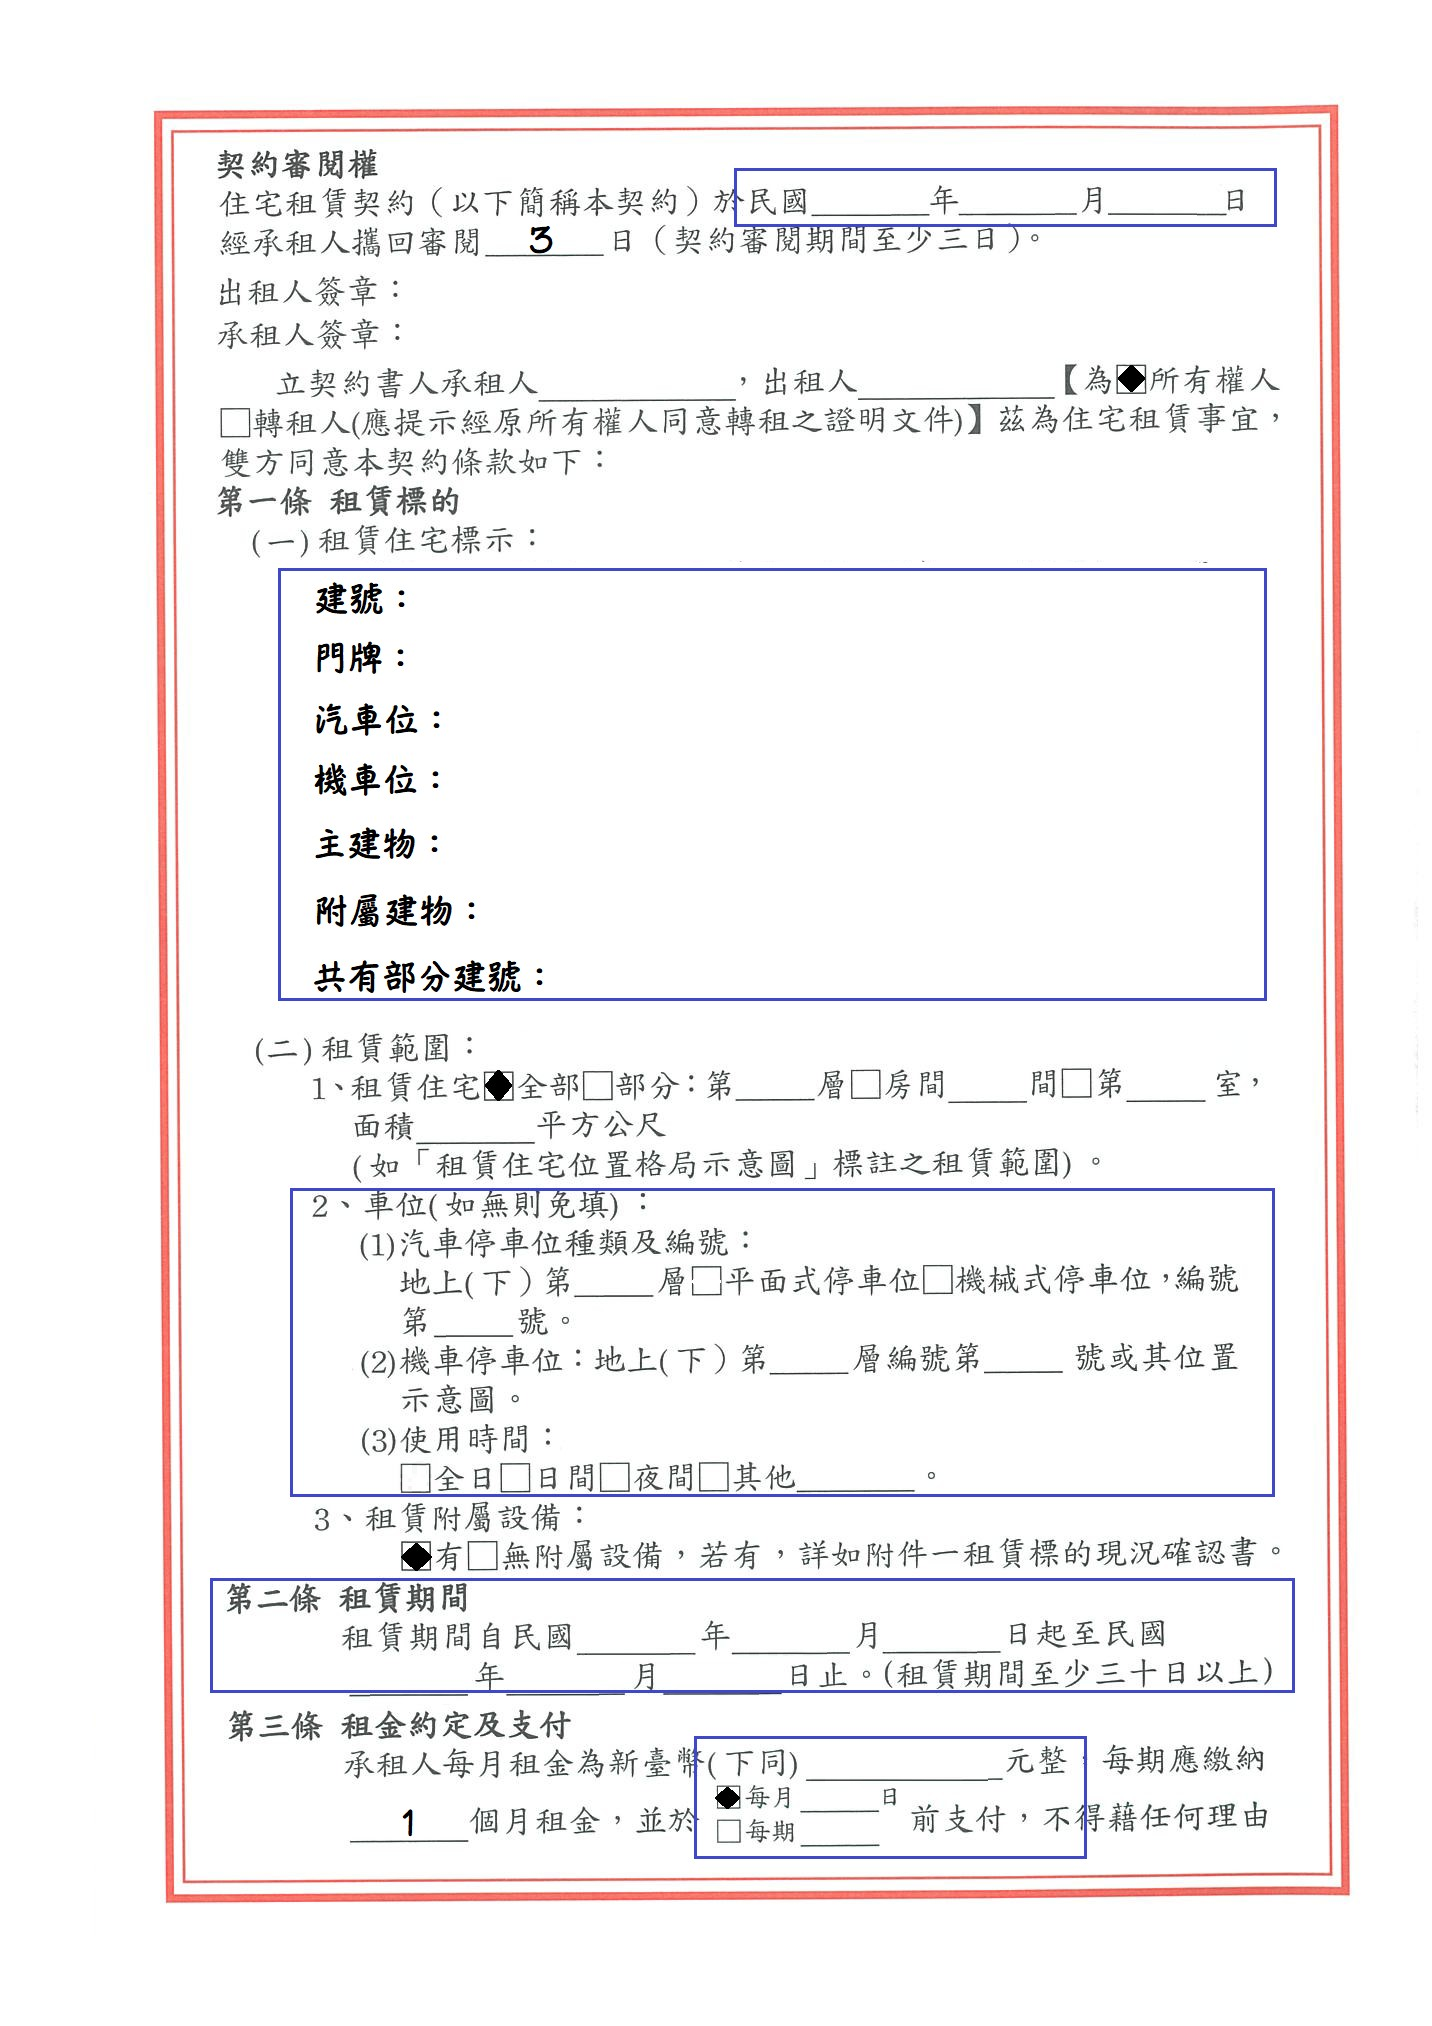
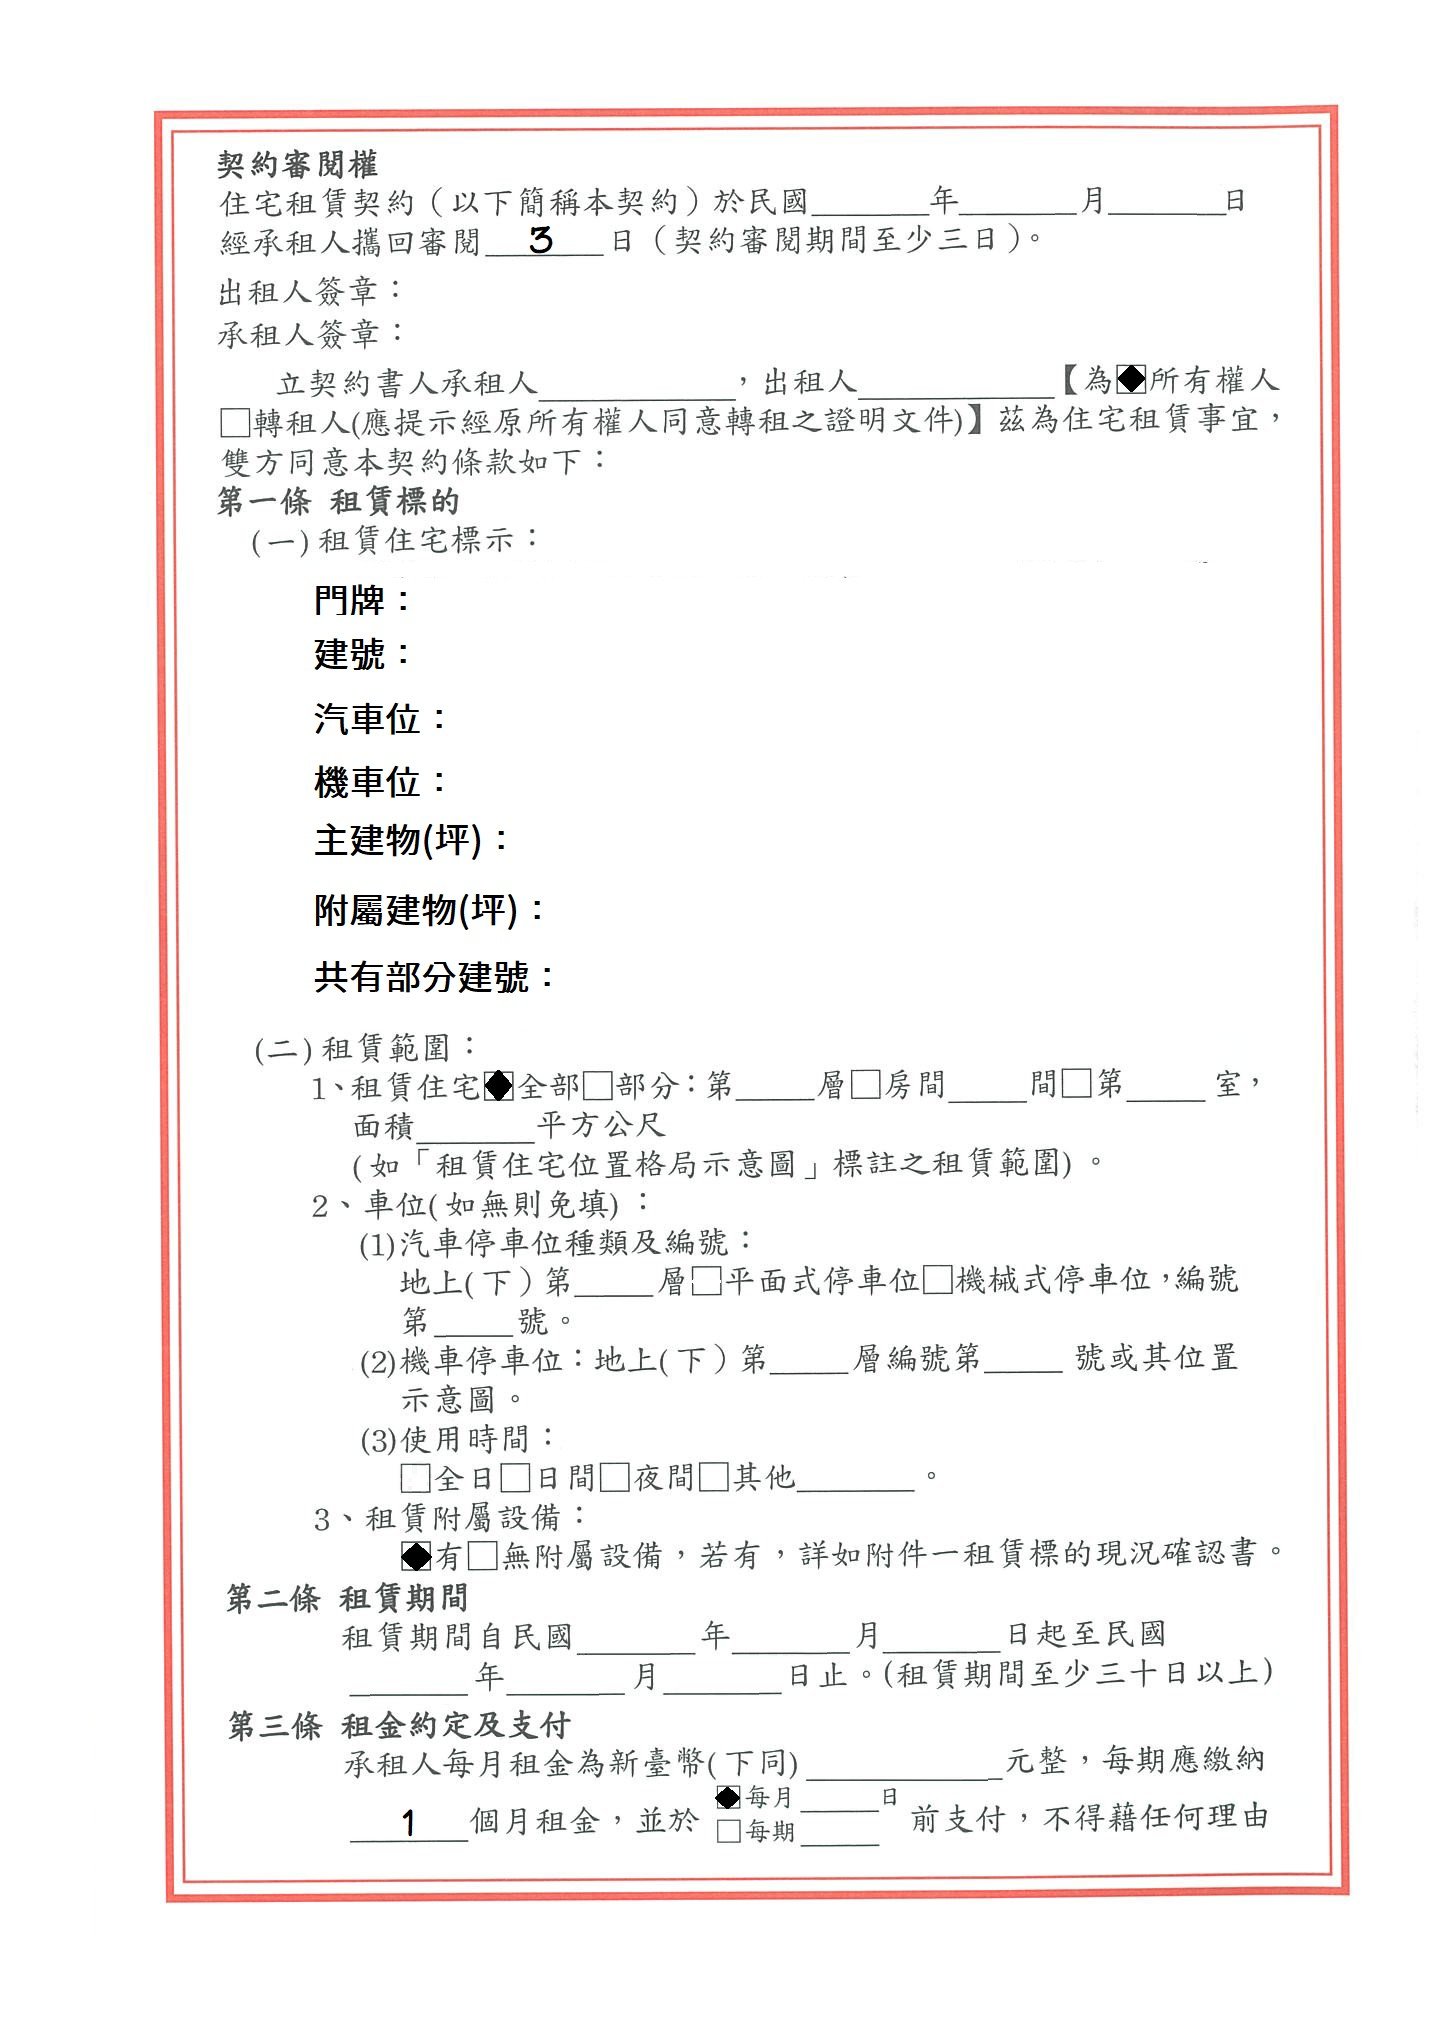
Replace lease images and Reposition fields

Changed region(s): [[0.2151, 0.2799, 0.3687, 0.4975], [0.8603, 0.2799, 0.8911, 0.311]]

diff --git a/app/controllers/lease_controller.rb b/app/controllers/lease_controller.rb
@@ -13,13 +13,13 @@ class LeaseController < ApplicationController
       -vf "#{draw_text(params[:year], 830, 190, size: 30)},\
           #{draw_text(params[:month], 1000, 190, size: 30)},\
           #{draw_text(params[:date], 1150, 190, size: 30)},\
-          #{draw_text(params[:building_number], 425, 585, size: 30)},\
-          #{draw_text(params[:house_number], 425, 645, size: 30)},\
+          #{draw_text(params[:building_number], 425, 640, size: 30)},\
+          #{draw_text(params[:house_number], 425, 585, size: 30)},\
           #{draw_text(params[:car_capacity], 455, 705, size: 30)},\
           #{draw_text(params[:bike_capacity], 455, 765, size: 30)},\
-          #{draw_text(params[:main_building], 455, 825, size: 30)},\
-          #{draw_text(params[:affiliated_building], 495, 895, size: 30)},\
-          #{draw_text(params[:shared_building_number], 560, 960, size: 30)},\
+          #{draw_text(params[:main_building], 520, 825, size: 30)},\
+          #{draw_text(params[:affiliated_building], 555, 895, size: 30)},\
+          #{draw_text(params[:shared_building_number], 565, 960, size: 30)},\
           #{draw_text(params[:parking_car_floor], 605, 1270, size: 30)},\
           #{draw_text(params[:parking_car_number], 450, 1310, size: 30)},\
           #{draw_text('V', x_option_parking_type, 1270, size: 30)},\
